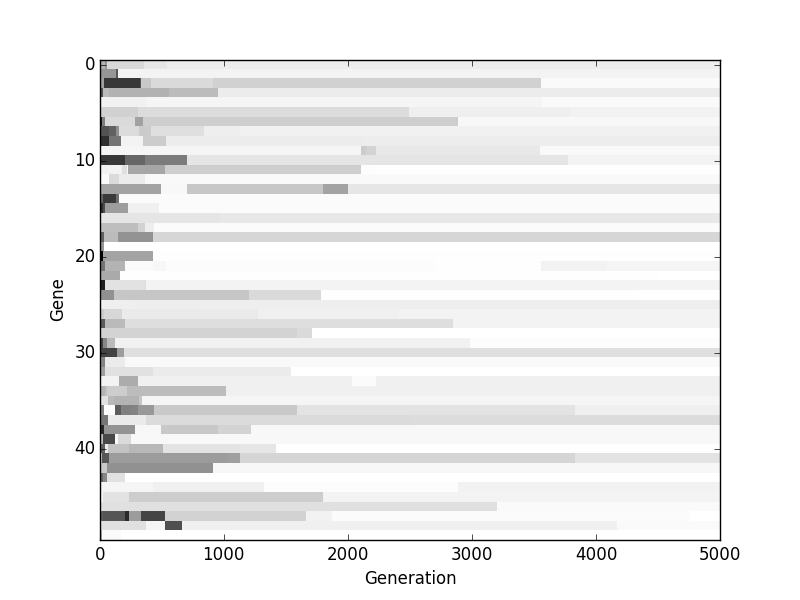
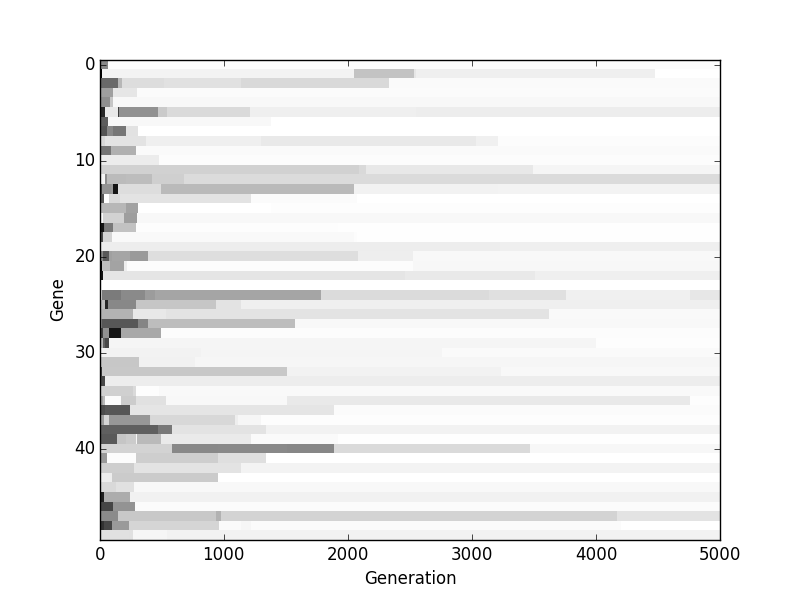
finished core03

Changed region(s): [[0.125, 0.09, 0.9062, 0.9], [0.4375, 0.09, 0.6875, 0.15], [0.8438, 0.84, 0.9062, 0.87]]

diff --git a/core03/evolveANN.py b/core03/evolveANN.py
@@ -15,20 +15,127 @@ def updateNeurons(neuronValuesPrev,synapseWeights):
         tmp[j] = np.max([0,np.min([1,np.dot(neuronValuesPrev,synapseWeights[j,:])])])
     return tmp
 
+def RMSEFitness(attempt,goal):
+    # function for core03, rmse
+    return np.sqrt(np.mean((attempt-goal)**2))
+
 if __name__ == '__main__':
+    # times to use testing
     runTime = 10
     numNeurons = 10
-    neuronValues = np.zeros([numNeurons,runTime])
-    neuronValues[:,0] = np.random.random(numNeurons)
+
+    # time to evolve for
+    evoTime = 1000
+
+    def testFun1(parent):
+        # blank run
+        neuronValues = np.zeros([numNeurons,runTime])
+        # random initialization
+        # neuronValues[:,0] = np.random.random(numNeurons)
+        # 0.5 initialization
+        neuronValues[:,0] = 0.5*np.ones(numNeurons)
+        # run the network forward
+        for t in range(1,runTime):
+            neuronValues[:,t] = updateNeurons(neuronValues[:,t-1],parent)
+
+        # return the last row
+        return neuronValues[:,-1]
+
     synapseWeights = np.random.uniform(low=-1.0,high=1.0,size=[numNeurons,numNeurons])
+        
+    goal = np.array([1,0,1,0,1,0,1,0,1,0,])
+    # parent,runtime,testFun,fitnessFun,match
+    fit,genes = Evolve(synapseWeights,evoTime,testFun1,RMSEFitness,goal,[-1,1])
 
-    
+    # lets plot the evolution of the first and last ANN
+    neuronValues = np.zeros([numNeurons,runTime])
+    neuronValues[:,0] = 0.5*np.ones(numNeurons)
     for t in range(1,runTime):
-        neuronValues[:,t] = updateNeurons(neuronValues[:,t-1],synapseWeights)
-
+        neuronValues[:,t] = updateNeurons(neuronValues[:,t-1],genes[:,:,0])
     plt.imshow(neuronValues, cmap=plt.cm.gray, aspect='auto', interpolation='nearest')
     plt.xlabel('Timestep')
     plt.ylabel('Neuron')
-    plt.show()
+    # plt.show()
+    plt.savefig("figure01.png")
+    plt.close()
+
+    # lets plot the evolution of the first and last ANN
+    neuronValues = np.zeros([numNeurons,runTime])
+    neuronValues[:,0] = 0.5*np.ones(numNeurons)
+    for t in range(1,runTime):
+        neuronValues[:,t] = updateNeurons(neuronValues[:,t-1],genes[:,:,-1])
+    plt.imshow(neuronValues, cmap=plt.cm.gray, aspect='auto', interpolation='nearest')
+    plt.xlabel('Timestep')
+    plt.ylabel('Neuron')
+    # plt.show()
+    plt.savefig("figure02.png")
+    plt.close()
+
+    plt.plot(range(evoTime),fit)
+    plt.xlabel('Timestep')
+    plt.ylabel('Fitness')
+    plt.savefig("figure03.png")
+    plt.close()
+
+
+
+
+    #################################################################
+    ## second design problem
+
+    def testFun2(parent):
+        # blank run
+        neuronValues = np.zeros([numNeurons,runTime])
+        # random initialization
+        # neuronValues[:,0] = np.random.random(numNeurons)
+        # 0.5 initialization
+        neuronValues[:,0] = 0.5*np.ones(numNeurons)
+        # run the network forward
+        for t in range(1,runTime):
+            neuronValues[:,t] = updateNeurons(neuronValues[:,t-1],parent)
+
+        # return the last row
+        return neuronValues
+
+    synapseWeights = np.random.uniform(low=-1.0,high=1.0,size=[numNeurons,numNeurons])
+
+    # terrible
+    e = np.array([1,0,1,0,1,0,1,0,1,0,])    
+    o = np.array([0,1,0,1,0,1,0,1,0,1,])
+    goal = np.array([e,o,e,o,e,o,e,o,e,o,])
+
+    # parent,runtime,testFun,fitnessFun,match
+    fit,genes = Evolve(synapseWeights,evoTime,testFun2,RMSEFitness,goal,[-1,1])
+
+    # lets plot the evolution of the first and last ANN
+    neuronValues = np.zeros([numNeurons,runTime])
+    neuronValues[:,0] = 0.5*np.ones(numNeurons)
+    for t in range(1,runTime):
+        neuronValues[:,t] = updateNeurons(neuronValues[:,t-1],genes[:,:,0])
+    plt.imshow(neuronValues, cmap=plt.cm.gray, aspect='auto', interpolation='nearest')
+    plt.xlabel('Timestep')
+    plt.ylabel('Neuron')
+    # plt.show()
+    plt.savefig("figure04.png")
+    plt.close()
+
+    # lets plot the evolution of the first and last ANN
+    neuronValues = np.zeros([numNeurons,runTime])
+    neuronValues[:,0] = 0.5*np.ones(numNeurons)
+    for t in range(1,runTime):
+        neuronValues[:,t] = updateNeurons(neuronValues[:,t-1],genes[:,:,-1])
+    plt.imshow(neuronValues, cmap=plt.cm.gray, aspect='auto', interpolation='nearest')
+    plt.xlabel('Timestep')
+    plt.ylabel('Neuron')
+    # plt.show()
+    plt.savefig("figure05.png")
+    plt.close()
+
+    plt.plot(range(evoTime),fit)
+    plt.xlabel('Timestep')
+    plt.ylabel('Fitness')
+    plt.savefig("figure06.png")
+    plt.close()
+
 
 

diff --git a/core01/hillclimber.py b/core01/hillclimber.py
@@ -7,26 +7,27 @@ def MatrixCreate(down,across):
 def MatrixRandomize(matrix):
     return np.random.random(np.shape(matrix))
 
-def MatrixPerturb(matrix, p):
+def MatrixPerturb(matrix, p, prange):
     # perturb the given matrix, replacing entries with probablity p
-    replaces = np.random.choice(2,[1,50],p=[1-p,p])
-    return matrix-np.multiply(matrix,replaces)+np.multiply(replaces,np.random.random(np.shape(matrix)))
+    replaces = np.random.choice(2,np.shape(matrix),p=[1-p,p])
+    return matrix-np.multiply(matrix,replaces)+np.multiply(replaces,np.random.uniform(low=prange[0],high=prange[1],size=np.shape(matrix)))
 
-def Fitness(matrix,match=[]):
+def Core01Fitness(matrix,match):
     # function for core01
     return np.mean(matrix)
-    # function for core03, rmse
-    # return np.sqrt(np.mean((matrix-match)**2))
 
-def Evolve(parent,runtime):
+def Evolve(parent,runtime,testFun,fitnessFun,match,prange):
     fit = np.zeros(runtime)
     genes = np.zeros([np.shape(parent)[0],np.shape(parent)[1],runtime])
     for currentGeneration in range(runtime):
-        parentFitness = Fitness(parent)
+        perf = testFun(parent)
+        parentFitness = fitnessFun(perf,match)
         fit[currentGeneration] = parentFitness
         genes[:,:,currentGeneration] = parent
-        child = MatrixPerturb(parent, .05) 
-        childFitness = Fitness(child)
+        child = MatrixPerturb(parent, .05, prange)
+        # now run the child
+        perf = testFun(child)
+        childFitness = fitnessFun(perf,match)
         if childFitness > parentFitness:
             parent = child
             parentFitness = childFitness
@@ -39,7 +40,7 @@ if __name__ == '__main__':
     # first just plot 1
     parent = MatrixCreate(1, 50) 
     parent = MatrixRandomize(parent) 
-    fit,genes = Evolve(parent,runtime)
+    fit,genes = Evolve(parent,runtime,lambda x: x,Core01Fitness,[],[0,1])
     plt.plot(range(runtime),fit)
     plt.xlabel("Generation")
     plt.ylabel("Fitness")
@@ -53,7 +54,7 @@ if __name__ == '__main__':
     for i in range(nruns):
         parent = MatrixCreate(1, 50) 
         parent = MatrixRandomize(parent) 
-        fit,genes = Evolve(parent,runtime)
+        fit,genes = Evolve(parent,runtime,lambda x: x,Core01Fitness,[],[0,1])
         fits[i,:] = fit
         plt.plot(range(runtime),fit)
 
@@ -65,7 +66,7 @@ if __name__ == '__main__':
     # first just plot 1
     parent = MatrixCreate(1, 50) 
     parent = MatrixRandomize(parent) 
-    fit,genes = Evolve(parent,runtime)
+    fit,genes = Evolve(parent,runtime,lambda x: x,Core01Fitness,[],[0,1])
     plt.imshow(genes[0,:,:], cmap=plt.cm.gray, aspect='auto', interpolation='nearest')
     plt.xlabel("Generation")
     plt.ylabel("Gene")
